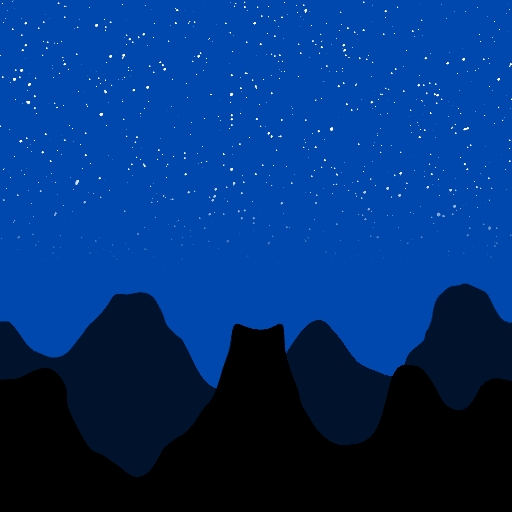
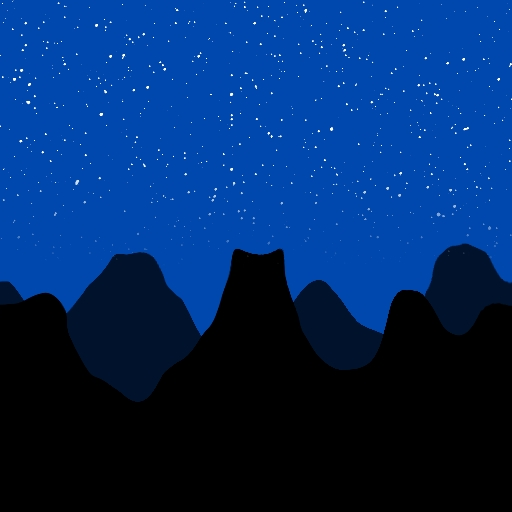
modified again the background and changed camera limits

Changed region(s): [[0.0, 0.4688, 1.0, 0.9375]]

diff --git a/archervsworld-core/src/main/java/com/gemserk/games/archervsworld/gamestates/PlayGameState.java b/archervsworld-core/src/main/java/com/gemserk/games/archervsworld/gamestates/PlayGameState.java
@@ -1,6 +1,7 @@
 package com.gemserk.games.archervsworld.gamestates;
 
 import java.io.InputStream;
+import java.text.MessageFormat;
 import java.util.ArrayList;
 
 import org.w3c.dom.Document;
@@ -212,7 +213,7 @@ public class PlayGameState extends GameStateImpl {
 
 		// Vector2 cameraPosition = new Vector2(viewportWidth * 0.5f * 0.025f, viewportHeight * 0.5f * 0.025f);
 		// Camera camera = new CameraImpl(cameraPosition.x, cameraPosition.y, 40f, 0f);
-		Camera camera = new CameraRestrictedImpl(0, 0, 20f, 0f, viewportWidth, viewportHeight, new Rectangle(-5f, -2f, 35f, 20f));
+		Camera camera = new CameraRestrictedImpl(0, 0, 32f, 0f, viewportWidth, viewportHeight, new Rectangle(2f, 0f, 25f, 15f));
 		camera.setPosition(viewportWidth * 0.5f * 0.025f, viewportHeight * 0.5f * 0.025f);
 
 		Rectangle controllerArea = new Rectangle(140, 0, viewportWidth - 140, viewportHeight);
@@ -462,12 +463,14 @@ public class PlayGameState extends GameStateImpl {
 			gameData.gameOver = true;
 			game.transition(game.scoreScreen, true);
 		}
+		
+		if (Gdx.input.isKeyPressed(Keys.T)) {
+			Camera camera = moveCameraController.getCamera();
+			System.out.println(MessageFormat.format("x,y=({0}, {1}) zoom={2}", camera.getX(), camera.getY(), camera.getZoom()));
+		}
 	}
 
 	protected void loadResources() {
-
-		// TextureAtlas textureAtlas = new TextureAtlas(Gdx.files.internal("MapTilesPack"));
-		// textureAtlas.
 
 		new LibgdxResourceBuilder(resourceManager) {
 			{
